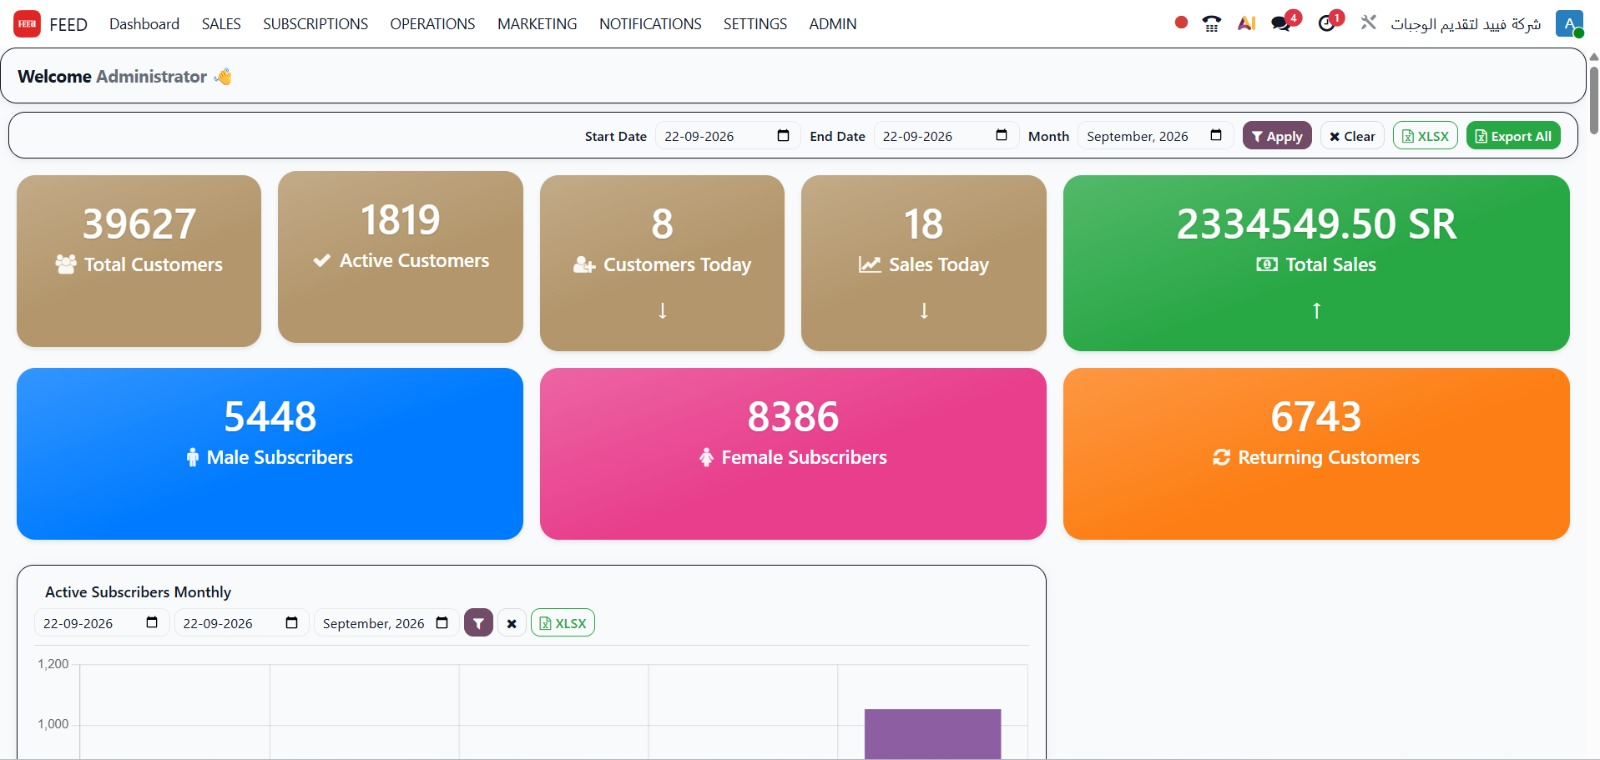
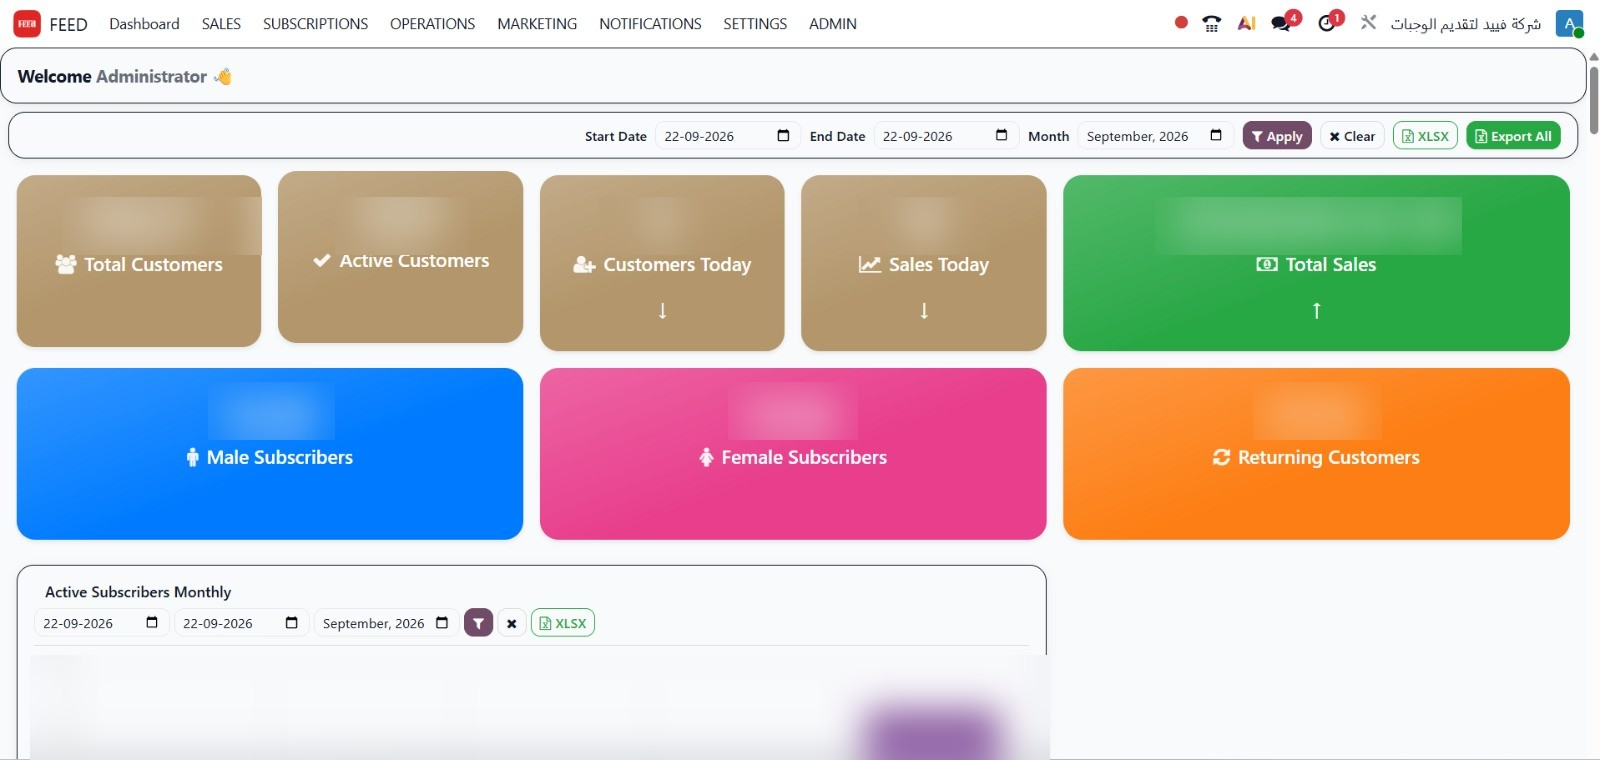
Freshhouse deck: blur client figures, trim gallery overflow to single row
Blur client's real numbers (dashboard stats, calorie values) instead of
exposing them; drop the exact dish/customer counts from copy; trim three
gallery slides so nothing wraps to a second row, dropping the FEED-branded
onboarding screen along the way.

diff --git a/freshouse/deck/freshhouse-codeox-pitch.html b/freshouse/deck/freshhouse-codeox-pitch.html
@@ -513,7 +513,7 @@ slides.push(`
       </div>
       <p class="lead" style="font-size:20px">Subscriptions, deliveries, ratings, cancellations - recorded the moment they happen. One dashboard, full visibility, nothing typed in by hand.</p>
       <div class="row gap40 mt8">
-        <div class="col gap8"><div class="stat-num" style="color:var(--gold-deep)">39,627</div><div class="stat-lbl">customers on the live system</div></div>
+        <div class="col gap8"><div class="stat-num" style="color:var(--gold-deep)">Live</div><div class="stat-lbl">customer count, always current</div></div>
         <div class="col gap8"><div class="stat-num" style="color:var(--gold-deep)">100%</div><div class="stat-lbl">app actions tracked</div></div>
         <div class="col gap8"><div class="stat-num" style="color:var(--gold-deep)">0</div><div class="stat-lbl">manual entries</div></div>
       </div>
@@ -585,12 +585,12 @@ slides.push(`
 </div>`);
 
 galSection('The customer app · 1 of 8 · Onboarding','A warm welcome, in under a minute.','Splash to verified account in a few taps: a branded splash, an inviting welcome, phone login, quick registration and instant OTP verification, with an "explore the menu" option for guests who aren\'t ready to sign up yet.',['scr-splash.png','scr-onboarding.png','scr-login.png','scr-register.png','scr-otp-verification-verified.png']);
-galSection('The customer app · 2 of 8 · The menu','200+ dishes, macros on every card.','Browse by day and meal type, breakfast, lunch, dinner, salads and snacks, with calories and macros on every card, full dish detail with allergens, one-tap favourites, and premium picks reserved for subscribers.',['scr-menu-breakfast.png','scr-menu-lunch-dinner.png','scr-menu-salad.png','scr-menu-snack-or-soup.png','scr-menu-details.png','scr-menu-favorites.png','scr-menu-favorites-empty.png','scr-premium-menu-item-preview-if-subscribed.png']);
-galSection('The customer app · 3 of 8 · Guided plan builder','"Help Me Choose" builds the perfect plan.','A 60-second guided quiz, personal info, body metrics and primary goal, produces a personalised plan with pricing and savings shown up front. It adapts to every profile and goal, so no one drops off at "which plan is right for me?"',['scr-help-me-choose-personal-info.png','scr-help-me-choose-personal-info-add-dob.png','scr-help-me-choose-primary-goal.png','scr-help-me-choose-primary-goal-for-female-users.png','scr-help-me-choose-all-set.png','scr-help-me-choose-all-set-1.png','scr-help-me-choose-all-set-2.png','scr-help-me-choose-all-set-3.png','scr-suggested-plan.png']);
+galSection('The customer app · 2 of 8 · The menu','Every dish, macros on every card.','Browse by day and meal type, breakfast, lunch, dinner, salads and snacks, with calories and macros on every card, full dish detail with allergens, one-tap favourites, and premium picks reserved for subscribers.',['scr-menu-breakfast.png','scr-menu-lunch-dinner.png','scr-menu-salad.png','scr-menu-snack-or-soup.png','scr-menu-details.png','scr-menu-favorites.png','scr-menu-favorites-empty.png']);
+galSection('The customer app · 3 of 8 · Guided plan builder','"Help Me Choose" builds the perfect plan.','A 60-second guided quiz, personal info, body metrics and primary goal, produces a personalised plan with pricing and savings shown up front. It adapts to every profile and goal, so no one drops off at "which plan is right for me?"',['scr-help-me-choose-personal-info.png','scr-help-me-choose-personal-info-add-dob.png','scr-help-me-choose-primary-goal.png','scr-help-me-choose-primary-goal-for-female-users.png','scr-help-me-choose-all-set.png','scr-help-me-choose-all-set-1.png']);
 galSection('The customer app · 4 of 8 · Customize the plan','Gram-level control over every meal.','Adjust protein and carb macros, meal counts and delivery days, upgrade the plan, and enhance any meal with add-ons. The live price recalculates as the customer builds, which lifts average order value.',['scr-customize-your-plan.png','scr-customize-your-plan-1.png','scr-customize-your-plan-macros-updated.png','scr-customize-your-plan-macros-days-added.png','scr-enhance-your-meal-add-on.png']);
 galSection('The customer app · 5 of 8 · Checkout & payment','Secure checkout, subscription live.','A clear checkout summary, secure payment, and an instant "subscription activated" confirmation, every order written straight into Odoo with no manual entry.',['scr-checkout.png','scr-payment.png','scr-payment-1.png','scr-subscription-activated.png']);
 galSection('The customer app · 6 of 8 · Delivery setup','Precise delivery, National Address ready.','Delivery preferences (including leave-at-door), map location, Saudi National Address capture and saved addresses, so every box reaches the right place the first time and drivers waste no time.',['scr-delivery-preference.png','scr-delivery-preference-dress-added.png','scr-delivery-location.png','scr-delivery-location-national-address.png','scr-add-address.png','scr-add-delivery-address-locate.png']);
-galSection('The customer app · 7 of 8 · Manage the subscription','Full self-serve control, any time.','Customers handle everything themselves, customize macros, upgrade, freeze days, change delivery, review order history and payment methods. That cuts support load dramatically while boosting retention.',['scr-subscription-manage.png','scr-subscription-customize-plan.png','scr-subscription-customize-plan-adjust-macros.png','scr-subscription-customize-plan-upgraded.png','scr-subscription-freeze-plan.png','scr-subscription-manage-delivery.png','scr-subscription-manage-delivery-update.png','scr-subscription-order-history.png','scr-subscription-payment-methods.png']);
+galSection('The customer app · 7 of 8 · Manage the subscription','Full self-serve control, any time.','Customers handle everything themselves, customize macros, upgrade, freeze days, change delivery, review order history and payment methods. That cuts support load dramatically while boosting retention.',['scr-subscription-manage.png','scr-subscription-customize-plan.png','scr-subscription-customize-plan-adjust-macros.png','scr-subscription-customize-plan-upgraded.png','scr-subscription-freeze-plan.png','scr-subscription-manage-delivery.png','scr-subscription-manage-delivery-update.png']);
 galSection('The customer app · 8 of 8 · Gift a plan','Turn happy customers into new ones.','Branded digital gift cards, gift a full subscription, and add a recipient, Odoo creates the gifted subscription automatically. It\'s the lowest-cost acquisition channel you have.',['scr-freshhouse-gift-card.png','scr-freshhouse-gift-card-subscription.png','scr-gift-card-add-receipient.png']);
 
 /* driver app — concise, workflow-focused */
@@ -598,7 +598,7 @@ slides.push(`
 <div class="slide gallery">
   <div class="slidehead"><div class="kicker"><span class="dot"></span> The driver app · how delivery runs</div><h2 class="title" style="font-size:38px">Delivery, fully in hand.</h2></div>
   <p class="lead" style="max-width:94ch;font-size:20px;margin-top:10px">Drivers log in, see their shift and today's assigned orders, and open full order and customer details. They deliver with photo proof and one-tap confirmation, and can log a delay, transfer an order, report an incident or contact the customer, all in a couple of taps. Every action syncs live to the same Odoo back office.</p>
-  <div class="galwrap sec" style="margin-top:24px">`+['drv-login.png','drv-home.png','drv-my-orders-pending.png','drv-my-orders-details.png','drv-my-orders-more-actions.png','drv-deliver-parcel-delivery-proof-upload.png','drv-deliver-parcel-confirm-delivery.png','drv-my-ratings.png'].map(fn=>`<div class="galph"><div class="gf"><img src="${IMG}${fn}" loading="lazy"></div><div class="gl">${titleize(fn)}</div></div>`).join('')+`</div>
+  <div class="galwrap sec" style="margin-top:24px">`+['drv-login.png','drv-home.png','drv-my-orders-pending.png','drv-my-orders-details.png','drv-my-orders-more-actions.png','drv-deliver-parcel-delivery-proof-upload.png','drv-deliver-parcel-confirm-delivery.png'].map(fn=>`<div class="galph"><div class="gf"><img src="${IMG}${fn}" loading="lazy"></div><div class="gl">${titleize(fn)}</div></div>`).join('')+`</div>
   <p class="small" style="margin-top:16px">Shown: the core flow. The app also handles delay reasons, order transfers, not-delivered cases, message templates, ratings and account settings.</p>
 </div>`);
 
